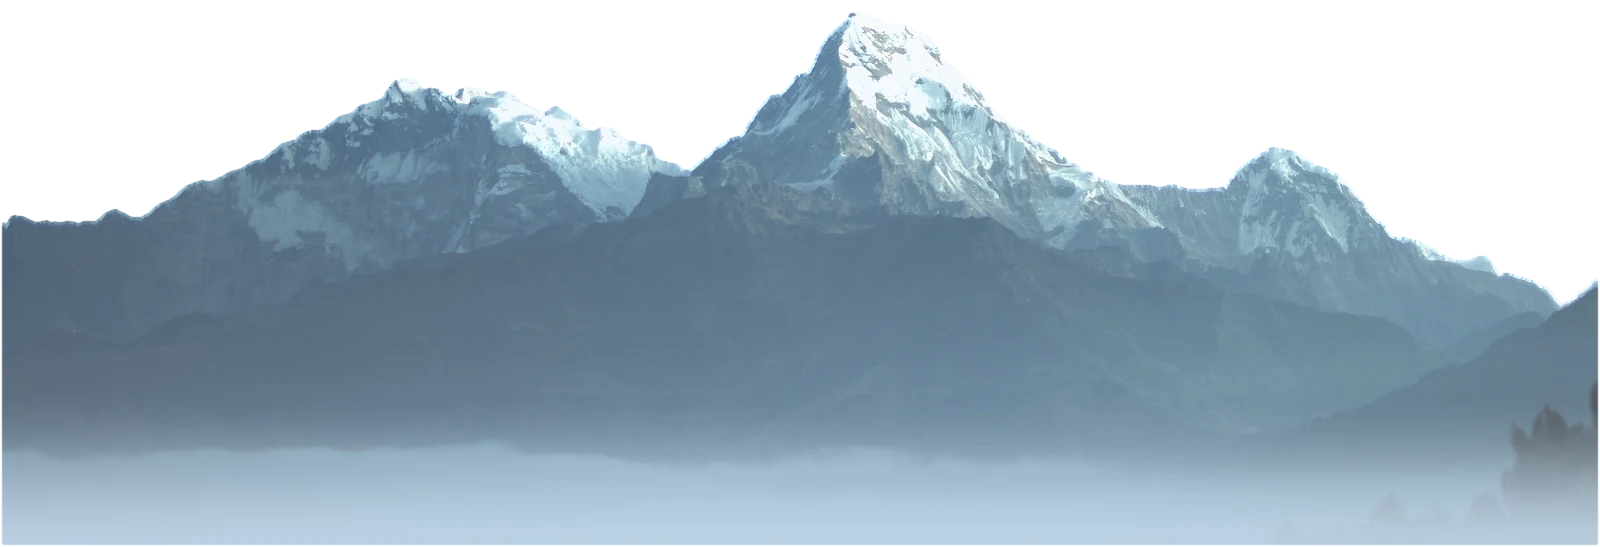
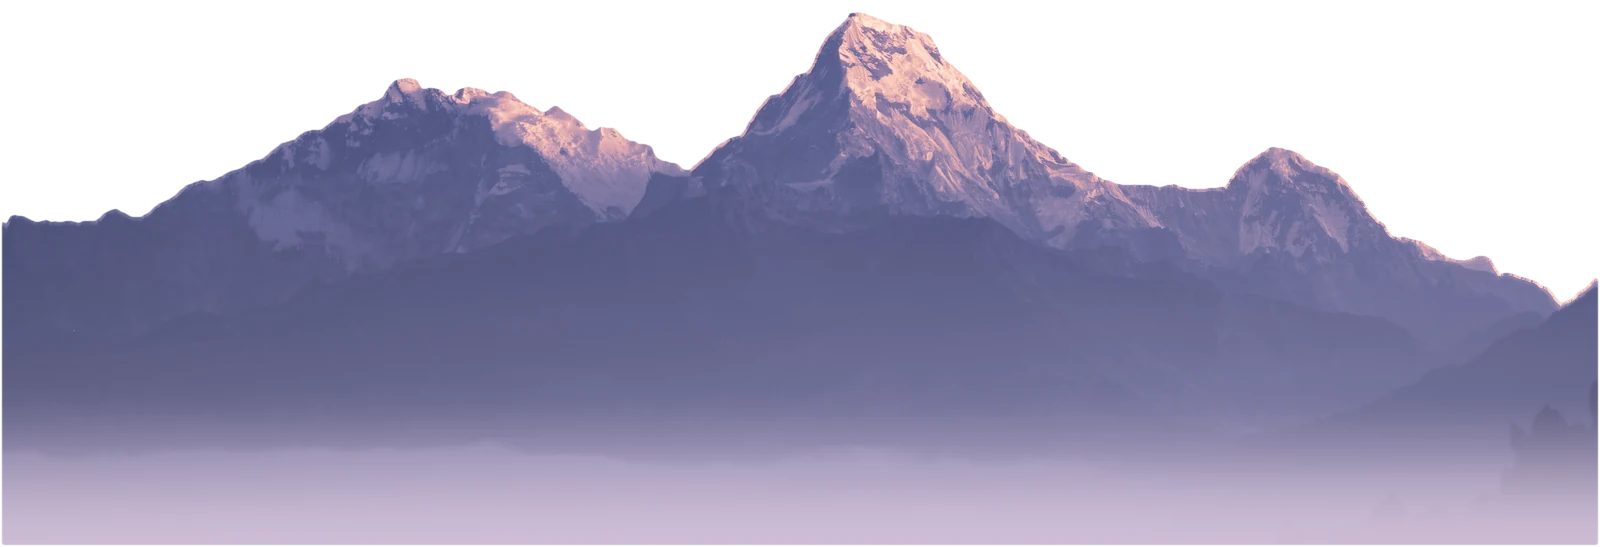
new mode terang

diff --git a/css/scenery.css b/css/scenery.css
@@ -1,10 +1,10 @@
 /* Tema terang: pemandangan gunung asli + air terjun beranimasi + burung terbang. Tanpa awan. Hanya di mode terang. */
 html[data-theme=light] body{background:#cfe9fb}
-.scenery{background:radial-gradient(ellipse 55% 45% at 86% 7%,rgba(255,246,222,.55),transparent 70%),linear-gradient(180deg,#4f9ee3 0%,#78b7ec 28%,#a9d3f3 55%,#d3e9f8 80%,#eaf3f8 100%);position:fixed;inset:0;z-index:-1;pointer-events:none;overflow:hidden;opacity:0;transition:opacity 1s}
+.scenery{background:radial-gradient(ellipse 55% 45% at 86% 7%,rgba(255,214,186,.65),transparent 72%),linear-gradient(180deg,#86a9e0 0%,#b3bfec 24%,#dcc6e0 48%,#f4cfd2 70%,#fbe6d8 100%);position:fixed;inset:0;z-index:-1;pointer-events:none;overflow:hidden;opacity:0;transition:opacity 1s}
 html[data-theme=light] .scenery{opacity:1}
 html[data-theme=light] .planet,html[data-theme=light] #sky{display:none}
-html[data-theme=light] section.alt{background:rgba(228,242,252,.58)!important}
-html[data-theme=light] .foot{background:rgba(226,241,252,.88)!important}
+html[data-theme=light] section.alt{background:rgba(252,242,247,.58)!important}
+html[data-theme=light] .foot{background:rgba(251,238,244,.9)!important}
 
 .sc-sun{position:absolute;top:-16%;right:-6%;width:min(620px,70vw);height:auto;opacity:.9}
 
@@ -12,7 +12,7 @@ html[data-theme=light] .foot{background:rgba(226,241,252,.88)!important}
 .mtn{--mh:max(240px,min(44vw,66vh));--ox:.56;--w:max(100vw,calc(var(--mh)*2.925));position:absolute;left:0;right:0;bottom:0;height:var(--mh)}
 .mtn-in{position:absolute;bottom:0;width:var(--w);left:calc((100% - var(--w))*var(--ox));aspect-ratio:1600/547}
 .mtn-in>img{position:absolute;inset:0;width:100%;height:100%;display:block}
-.fall{position:absolute;overflow:hidden;left:23.75%;top:43.1%;width:12.5%;height:41.7%}
+.fall{position:absolute;overflow:hidden;left:21.25%;top:42.05%;width:17.5%;height:43.14%}
 .fall img{display:block;width:800%;height:100%;max-width:none;animation:ff .9s steps(8) infinite}
 @keyframes ff{to{transform:translateX(-100%)}}
 
@@ -27,3 +27,13 @@ html[data-theme=light] .foot{background:rgba(226,241,252,.88)!important}
 
 @media(max-width:600px){.mtn{--mh:290px;--ox:.28}.sc-sun{width:90vw;top:-10%}}
 @media(prefers-reduced-motion:reduce){.flock,.bd,.b,.fall img{animation:none}.flock,.bd{transform:translateX(30vw)}}
+
+/* Kabut lembah yang bergeser pelan + hutan pinus di depan */
+.mist{position:absolute;left:0;right:0;bottom:2%;height:30%;overflow:hidden;pointer-events:none}
+.mist i{position:absolute;top:0;left:0;width:200%;height:100%;background-repeat:repeat-x;background-size:50% 100%;animation:mist var(--t) linear infinite;will-change:transform}
+.mist.m1 i{background-image:url(../gambar/scene/mist1.webp);--t:170s;opacity:.5}
+.mist.m2{bottom:-4%;height:26%}.mist.m2 i{background-image:url(../gambar/scene/mist2.webp);--t:110s;animation-direction:reverse;opacity:.4}
+@keyframes mist{to{transform:translateX(-50%)}}
+.forest{position:absolute;left:0;right:0;bottom:0;height:min(30vh,300px);min-height:150px}
+.forest img{width:100%;height:100%;object-fit:cover;object-position:50% 100%;display:block}
+@media(prefers-reduced-motion:reduce){.mist i{animation:none}}

diff --git a/index.html b/index.html
@@ -167,8 +167,8 @@
     <div>
       <div class="info"><span><svg class="ic" viewBox="0 0 24 24" aria-hidden="true"><path d="M20 10c0 6-8 12-8 12S4 16 4 10a8 8 0 0 1 16 0Z"/><circle cx="12" cy="10" r="3"/></svg></span><div><b>Alamat</b>Jl. Melawai 2, RT.3/RW.1, Melawai, Kec. Kby. Baru, Kota Jakarta Selatan, Daerah Khusus Ibukota Jakarta 12160</div></div>
       <div class="info"><span><svg class="ic" viewBox="0 0 24 24" aria-hidden="true"><circle cx="12" cy="12" r="10"/><path d="M12 6v6l4 2"/></svg></span><div><b>Jam buka</b>Senin - Jumat: 08.00 - 22.00<br>Sabtu - Minggu: 09.00 - 23.00</div></div>
-      <div class="info"><span><svg class="ic" viewBox="0 0 24 24" aria-hidden="true"><path d="M7.9 20A9 9 0 1 0 4 16.1L2 22Z"/></svg></span><div><b>WhatsApp</b>0878-5084-9009</div></div>
-      <div class="btns"><a class="btn solid" href="https://wa.me/627850849009" target="_blank" rel="noopener">Chat WhatsApp</a><a class="btn line" href="https://www.instagram.com/angkasayeu_/" target="_blank" rel="noopener">Instagram</a><a class="btn line" href="https://www.google.com/maps/search/?api=1&query=Jl.+Melawai+2,+Melawai,+Kebayoran+Baru,+Jakarta+Selatan+12160" target="_blank" rel="noopener">Buka di Maps</a></div>
+      <div class="info"><span><svg class="ic" viewBox="0 0 24 24" aria-hidden="true"><path d="M7.9 20A9 9 0 1 0 4 16.1L2 22Z"/></svg></span><div><b>WhatsApp</b>0812-0000-0000</div></div>
+      <div class="btns"><a class="btn solid" href="https://wa.me/6281200000000" target="_blank" rel="noopener">Chat WhatsApp</a><a class="btn line" href="https://www.instagram.com/angkasayeu_/" target="_blank" rel="noopener">Instagram</a><a class="btn line" href="https://www.google.com/maps/search/?api=1&query=Jl.+Melawai+2,+Melawai,+Kebayoran+Baru,+Jakarta+Selatan+12160" target="_blank" rel="noopener">Buka di Maps</a></div>
     </div>
     <div class="map"><iframe title="Peta lokasi Cafe Angkasa" src="https://www.google.com/maps?q=Jl.+Melawai+2,+Melawai,+Kebayoran+Baru,+Jakarta+Selatan+12160&output=embed" loading="lazy" referrerpolicy="no-referrer-when-downgrade" allowfullscreen></iframe></div>
   </div>
@@ -179,7 +179,7 @@
   <div class="foot-top">
     <div><b class="foot-brand">Cafe Angkasa</b><p>A little space for you.</p></div>
     <nav class="foot-links" aria-label="Footer">
-      <a href="https://www.instagram.com/angkasayeu_/" target="_blank" rel="noopener">Instagram</a><a href="https://wa.me/627850849009" target="_blank" rel="noopener">WhatsApp</a>
+      <a href="https://www.instagram.com/angkasayeu_/" target="_blank" rel="noopener">Instagram</a><a href="https://wa.me/6281200000000" target="_blank" rel="noopener">WhatsApp</a>
       <a href="#home">Home</a><a href="#menu">Menu</a><a href="#about">About</a><a href="#contact">Contact</a>
     </nav>
   </div>

diff --git a/js/scenery.js b/js/scenery.js
@@ -14,6 +14,6 @@ const solo=[ // y, ukuran, durasi lintas, delay, kepak, opacity, arah balik
  ['14%',34,64,-30,.9,.88,0],['33%',22,78,-55,.8,.7,1],['9%',16,92,-12,.7,.55,0],['41%',28,70,-5,1.0,.8,1]
 ].map(([y,s,t,d,fl,o,r])=>`<div class="bd" style="--y:${y};--t:${t}s;--d:${d}s;--s:${s}px;--bb:${2.6+s/40}s">${bird(r?'rev':'','',fl,0,o)}</div>`).join('');
 el.innerHTML='<img class="sc-sun" src="gambar/scene/sun.webp" alt="" decoding="async">'+solo+flock+
- '<div class="mtn"><div class="mtn-in"><img src="gambar/scene/mountains.webp" alt="" decoding="async"><div class="fall"><img src="gambar/scene/fall.webp" alt="" decoding="async"></div></div></div>';
+ '<div class="mtn"><div class="mtn-in"><img src="gambar/scene/mountains.webp" alt="" decoding="async"><div class="fall"><img src="gambar/scene/fall.webp" alt="" decoding="async"></div><div class="mist m1"><i></i></div><div class="mist m2"><i></i></div></div></div><div class="forest"><img src="gambar/scene/forest.webp" alt="" decoding="async"></div>';
 document.body.prepend(el);
 })();

diff --git a/js/cart.js b/js/cart.js
@@ -112,7 +112,7 @@ f.addEventListener('submit',e=>{e.preventDefault();if(!cart.length)return;chkPho
   $('#okEta').textContent={dine:'10–15 menit',pickup:'10–15 menit',delivery:'25–40 menit'}[o.type];
   $('#okLast').textContent={dine:'Diantar ke meja',pickup:'Siap diambil',delivery:'Dalam perjalanan'}[o.type];
   $('#okPayNote').textContent=o.pay==='cash'?' dan siapkan pembayaran tunai':o.pay==='card'?', lalu tunggu tautan pembayaran aman dari admin':', lalu kirim bukti pembayaran di chat yang sama';
-  $('#okWa').href='https://wa.me/6287850849009?text='+encodeURIComponent(t);
+  $('#okWa').href='https://wa.me/6281200000000?text='+encodeURIComponent(t);
   cart=[];coupon='';save();dCo.close();render();dOk.showModal()});
 render();
 })();
